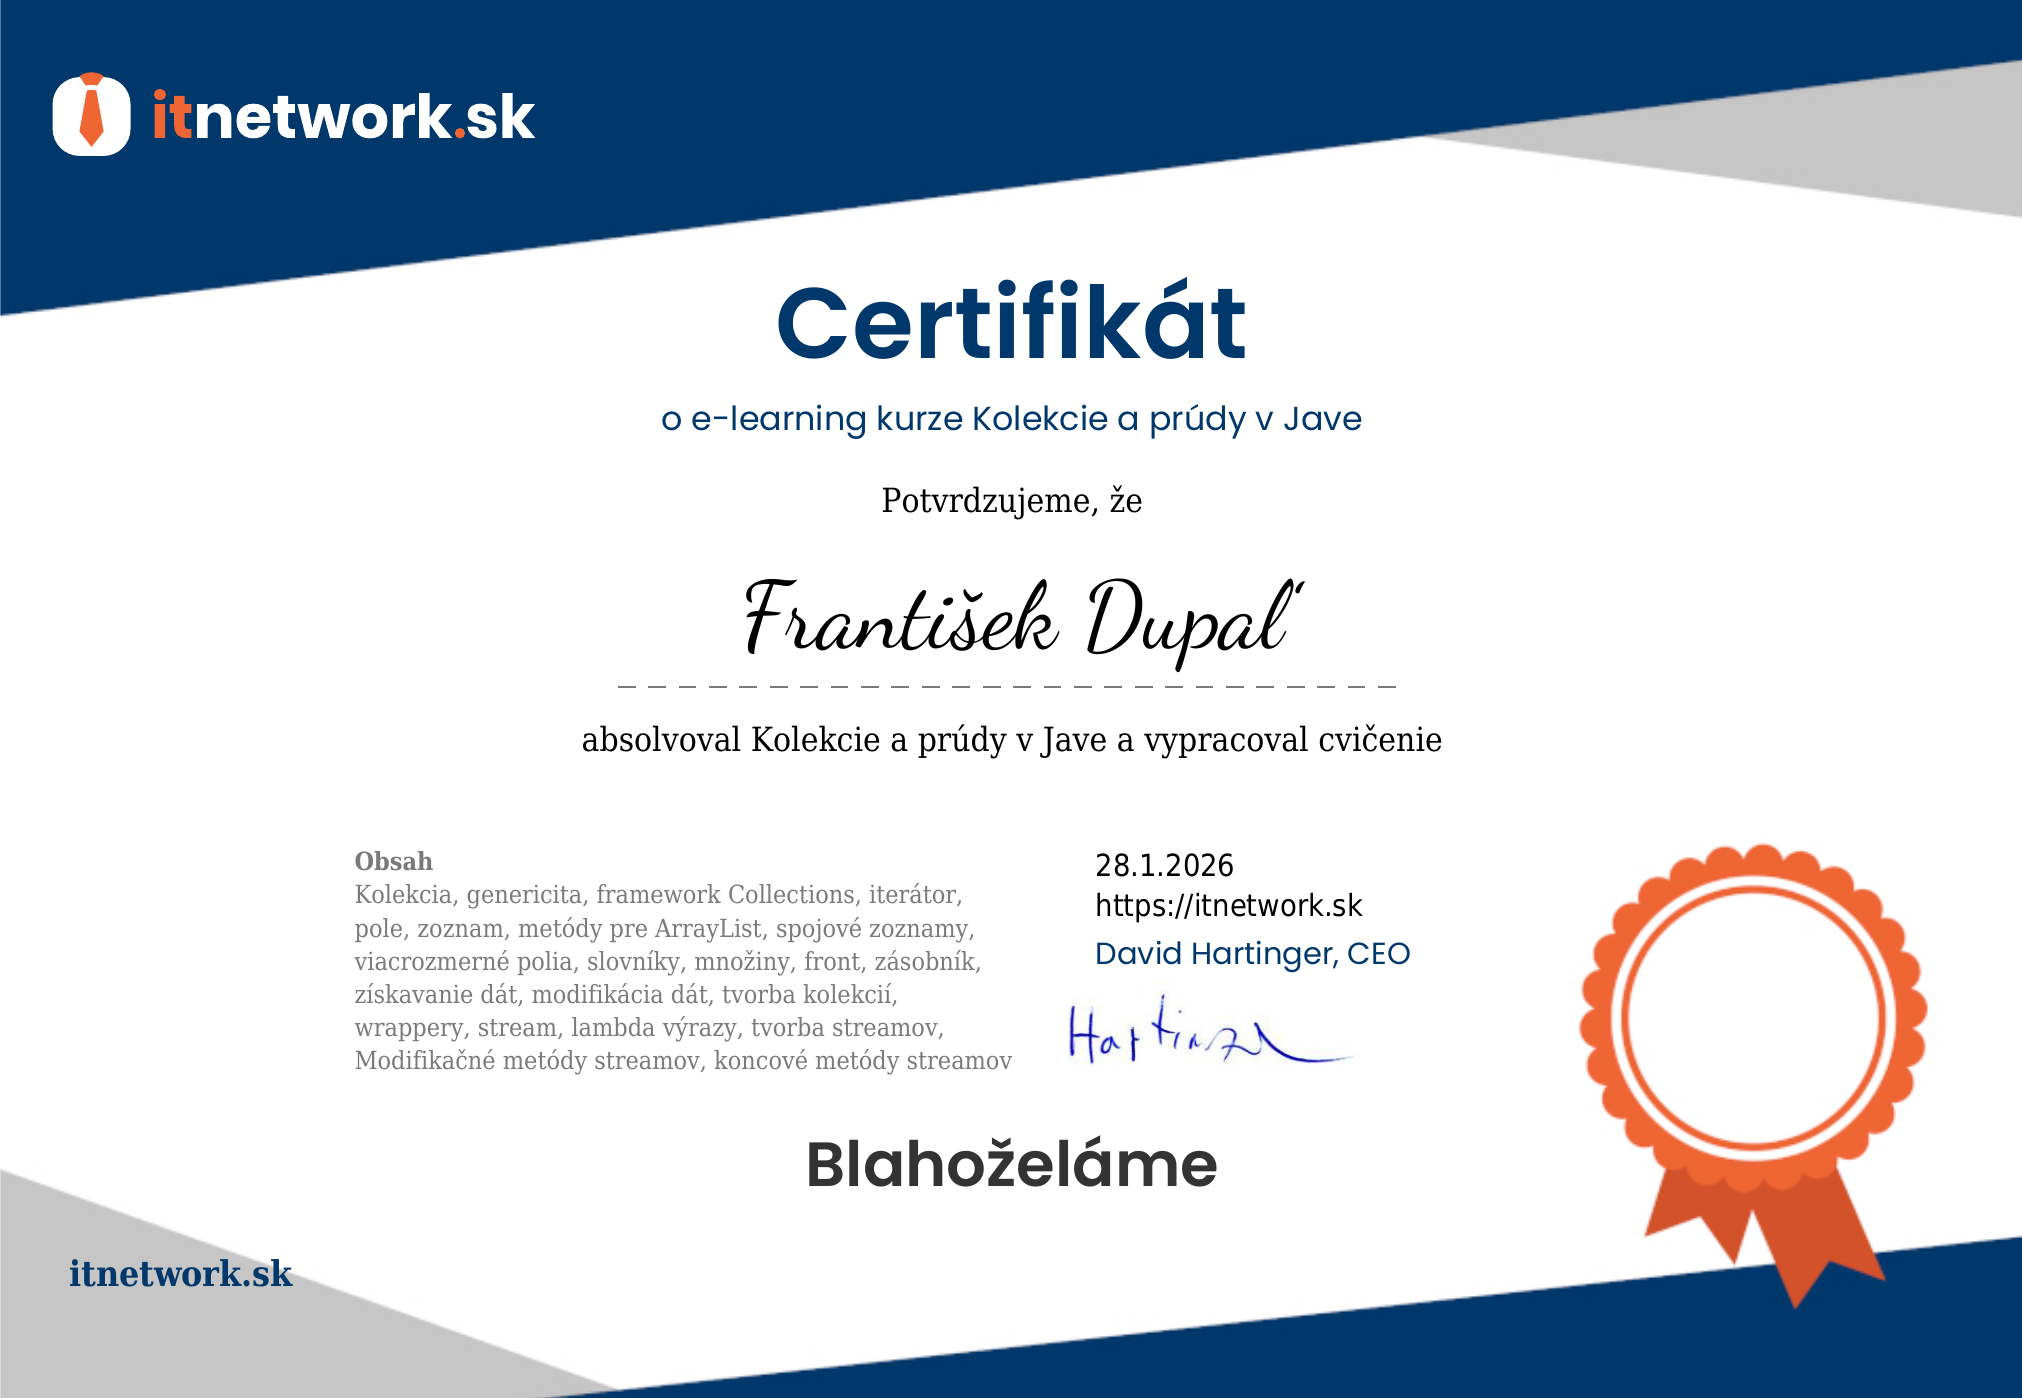
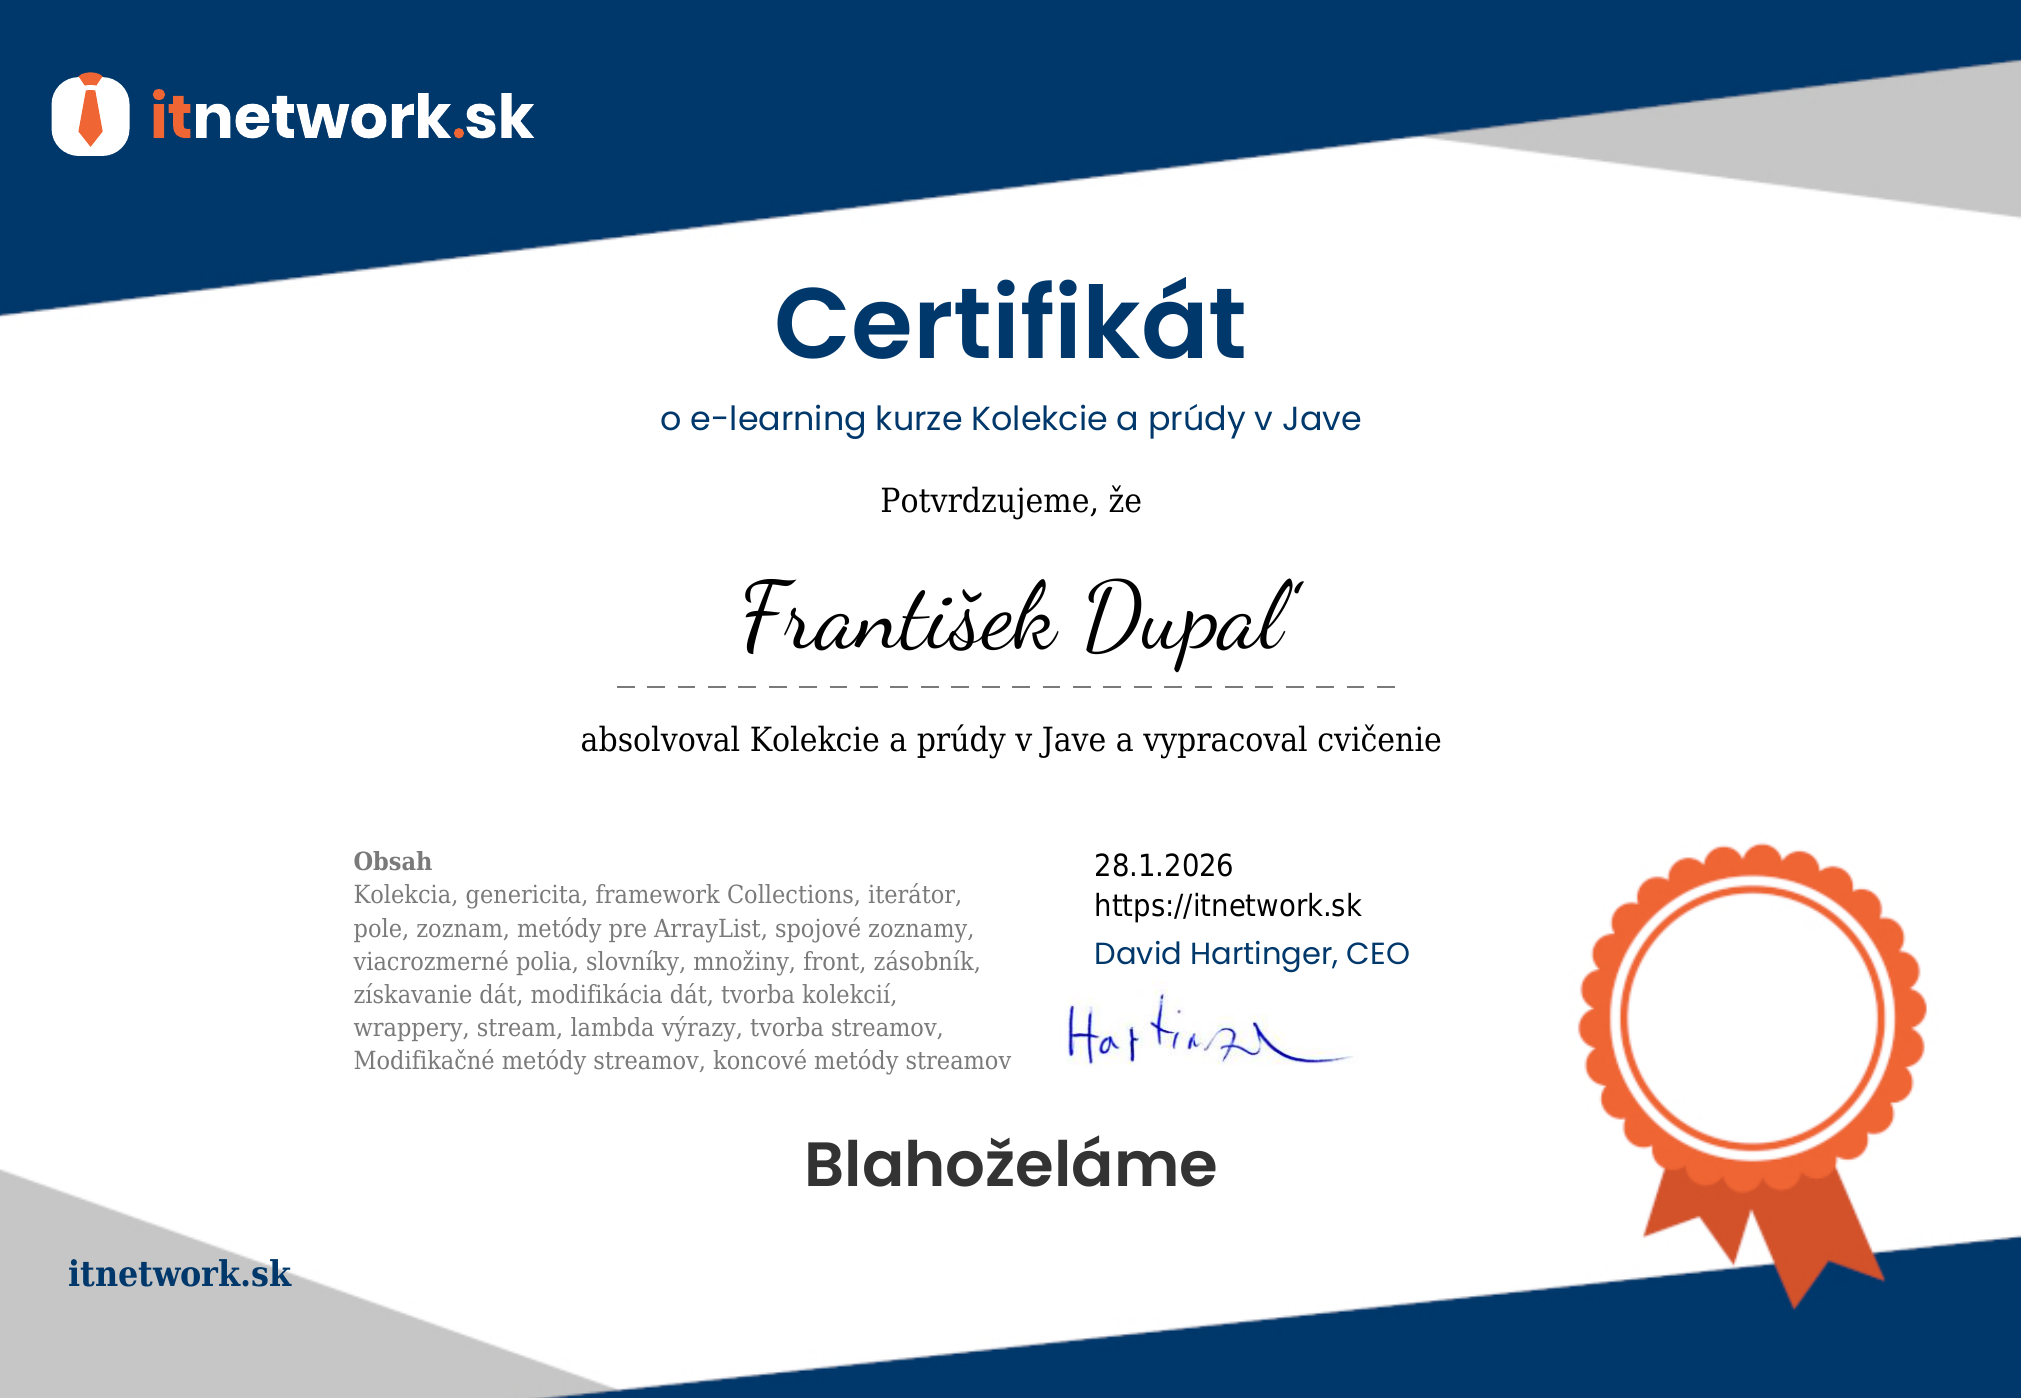
uprava designu skills a about, zmena z-indexu dropdownu

diff --git a/src/js/skills.js b/src/js/skills.js
@@ -4,7 +4,7 @@
 //
 // Tento modul zabezpečuje:
 // - dynamické renderovanie skill kariet
-// - rozdelenie skillov do ľavého a pravého stĺpca
+// - dvojstĺpcový layout (flex 50%)
 // - podporu pre viacjazyčné preklady (data-translate)
 //
 // Modul je inicializovaný cez main.js
@@ -31,19 +31,19 @@ import iconRestAPI from "../icons/RestAPI-icon.png";
 
 // Exportované dáta
 export const SKILLS_DATA = [
-  { side: "left",  icon: iconIntelliJ, alt: "IntelliJ IDEA icon", titleKey: "skillTitleIntelliJ",  descKey: "intelliJIDEAskills" },
-  { side: "left",  icon: iconDevTools, alt: "DevTools icon",        titleKey: "skillTitleDevTools", descKey: "devtoolsskills" },
-  { side: "left",  icon: iconHTML5,    alt: "HTML5 icon",           titleKey: "skillTitleHTML5",    descKey: "html5skills" },
-  { side: "left",  icon: iconSCSS,     alt: "SCSS icon",            titleKey: "skillTitleSCSS",     descKey: "scssskills" },
-  { side: "left",  icon: iconJS,       alt: "JavaScript icon",      titleKey: "skillTitleJavaScript", descKey: "javaScriptskills" },
-  { side: "left",  icon: iconBootstrap, alt: "Bootstrap icon",      titleKey: "skillTitleBootstrap", descKey: "bootstrapskills" },
+  { icon: iconIntelliJ, alt: "IntelliJ IDEA icon", titleKey: "skillTitleIntelliJ",  descKey: "intelliJIDEAskills" },
+  { icon: iconDevTools, alt: "DevTools icon",      titleKey: "skillTitleDevTools", descKey: "devtoolsskills" },
+  { icon: iconHTML5,    alt: "HTML5 icon",         titleKey: "skillTitleHTML5",    descKey: "html5skills" },
+  { icon: iconSCSS,     alt: "SCSS icon",          titleKey: "skillTitleSCSS",     descKey: "scssskills" },
+  { icon: iconJS,       alt: "JavaScript icon",    titleKey: "skillTitleJavaScript", descKey: "javaScriptskills" },
+  { icon: iconBootstrap, alt: "Bootstrap icon",    titleKey: "skillTitleBootstrap", descKey: "bootstrapskills" },
 
-  { side: "right", icon: iconSQL,      alt: "SQL icon",             titleKey: "skillTitleSQL",      descKey: "sqlskills" },
-  { side: "right", icon: iconGit,      alt: "Git icon",             titleKey: "skillTitleGit",      descKey: "gitskills" },
-  { side: "right", icon: iconGitHub,   alt: "GitHub icon",          titleKey: "skillTitleGitHub",   descKey: "githubskills" },
-  { side: "right", icon: iconJava,     alt: "Java icon",            titleKey: "skillTitleJava",     descKey: "javaskills" },
-  { side: "right", icon: iconSpring,   alt: "Spring Boot icon",     titleKey: "skillTitleSpringBoot", descKey: "springbootskills" },
-  { side: "right", icon: iconRestAPI,  alt: "REST API icon",        titleKey: "skillTitleRestAPI",  descKey: "restAPIskills" }
+  { icon: iconSQL,      alt: "SQL icon",           titleKey: "skillTitleSQL",      descKey: "sqlskills" },
+  { icon: iconGit,      alt: "Git icon",           titleKey: "skillTitleGit",      descKey: "gitskills" },
+  { icon: iconGitHub,   alt: "GitHub icon",        titleKey: "skillTitleGitHub",   descKey: "githubskills" },
+  { icon: iconJava,     alt: "Java icon",          titleKey: "skillTitleJava",     descKey: "javaskills" },
+  { icon: iconSpring,   alt: "Spring Boot icon",   titleKey: "skillTitleSpringBoot", descKey: "springbootskills" },
+  { icon: iconRestAPI,  alt: "REST API icon",      titleKey: "skillTitleRestAPI",  descKey: "restAPIskills" }
 ];
 
 
@@ -90,16 +90,18 @@ export function createSkillCard(skill) {
 // Hlavná funkcia – renderovanie skillov
 // ------------------------------------------------------
 export function renderSkills() {
-  const leftCol = document.getElementById("skills-left");
-  const rightCol = document.getElementById("skills-right");
+  const grid = document.getElementById("skills-grid");
+  if (!grid) return;
 
-  if (!leftCol || !rightCol) return;
-
-  leftCol.innerHTML = "";
-  rightCol.innerHTML = "";
+  grid.innerHTML = "";
 
   SKILLS_DATA.forEach(skill => {
+    const wrapper = document.createElement("div");
+    wrapper.className = "skills-info";
+
     const card = createSkillCard(skill);
-    (skill.side === "left" ? leftCol : rightCol).appendChild(card);
+    wrapper.appendChild(card);
+
+    grid.appendChild(wrapper);
   });
 }

diff --git a/src/scss/components/_skill-card.scss b/src/scss/components/_skill-card.scss
@@ -7,19 +7,27 @@
 $skill-icon-size-desktop: 2rem;
 $skill-icon-size-mobile: 1.5rem;
 
+// ===============================================
+// SKILL CARD – HLAVNÝ LAYOUT
+// ===============================================
+
 .skill-card {
   display: flex;
-  gap: ds.$space-md;
+  align-items: center;
+  gap: ds.$space-sm;
   width: 100%;
-  margin-top: ds.$space-md;
-  align-items: flex-start;
 
-  // LEFT SIDE
+
+  // ----------------------------------------
+  // LEFT SIDE (IKONA + NADPIS)
+  // ----------------------------------------
   .skill-left {
     @include ds.flex-column;
     align-items: center;
     justify-content: center;
+
     width: 8rem;
+    min-width: 8rem; // pevná šírka pre perfektné zarovnanie
     min-height: 8rem;
     text-align: center;
 
@@ -29,41 +37,45 @@ $skill-icon-size-mobile: 1.5rem;
       object-fit: contain;
       margin-bottom: ds.$space-xxs;
     }
+
+    .skill-title {
+      font-size: ds.$font-size-lg;
+      margin: 0;
+      text-align: center;
+    }
   }
 
-  // TITLE
-  .skill-title {
-    font-size: ds.$font-size-lg;
-    margin: 0;
-    text-align: center;
-  }
-
-  // DESCRIPTION (collapsed)
+  // ----------------------------------------
+  // RIGHT SIDE (POPIS)
+  // ----------------------------------------
   .skill-desc {
-    flex: 1 1 auto;
+    width: calc(100% - 8rem - ds.$space-md);
+    min-width: calc(100% - 8rem - ds.$space-md);
+    flex: none; // zabráni roztiahnutiu podľa obsahu
+
     opacity: 0;
     max-height: 0;
     overflow: hidden;
-    transition: all 0.3s ease;
-    overflow-wrap: break-word;
     line-height: 1.2;
+    overflow-wrap: break-word;
+    transition: all 0.3s ease;
   }
 
-  // DESCRIPTION (expanded)
+  // EXPANDED STATE
   .skill-desc.show {
     opacity: 1;
     max-height: 500px;
-    background: ds.$cards-rgba;
     padding: ds.$space-md;
-    @include ds.rounded(ds.$radius-base);
+    background: ds.$cards-rgba;
     font-size: ds.$font-size-base;
+    @include ds.rounded(ds.$radius-base);
     @include ds.bubble-box-shadow;
   }
 }
 
-// ----------------------------------------
-// Responsive
-// ----------------------------------------
+// ===============================================
+// RESPONSIVE – MOBILE
+// ===============================================
 
 @include ds.mobile {
   .skill-card {
@@ -72,11 +84,17 @@ $skill-icon-size-mobile: 1.5rem;
 
   .skill-left {
     width: 60px;
+    min-width: 60px;
     min-height: 2rem;
 
     .skill-icon {
       width: $skill-icon-size-mobile;
       height: $skill-icon-size-mobile;
     }
+  }
+
+  .skill-desc {
+    width: calc(100% - 60px - 0.75rem);
+    min-width: calc(100% - 60px - 0.75rem);
   }
 }

diff --git a/index.html b/index.html
@@ -287,20 +287,15 @@
       <section class="page-section bg-primary text-white mb-0" id="skills">
         <div class="skills-container">
           <div class="section">
-          <h2 data-translate="subtitleSkills" class="page-section-heading text-center text-uppercase">Skills</h2>
-          <div class="divider-custom d-flex justify-content-center align-items-center">
-            <div class="divider-custom-line"></div>
-            <div class="divider-custom-icon"><i class="fas fa-star"></i></div>
-            <div class="divider-custom-line"></div>
-          </div>
-          <div class="skills-page">
-            <div class="row">
-              <!-- ĽAVÝ STĹPEC -->
-              <div class="col-lg-6 skills-info" id="skills-left"></div>
-              <!-- PRAVÝ STĹPEC -->
-              <div class="col-lg-6 skills-info" id="skills-right"></div>
+            <h2 data-translate="subtitleSkills" class="page-section-heading text-center text-uppercase">Skills</h2>
+            <div class="divider-custom d-flex justify-content-center align-items-center">
+              <div class="divider-custom-line"></div>
+              <div class="divider-custom-icon"><i class="fas fa-star"></i></div>
+              <div class="divider-custom-line"></div>
             </div>
-          </div>
+            <div class="skills-page">
+              <div class="row" id="skills-grid"></div>
+            </div>
           </div>
         </div>
       </section>

diff --git a/src/scss/pages/_skills.scss b/src/scss/pages/_skills.scss
@@ -16,11 +16,18 @@
   @include ds.gradient-bg(ds.$first-middle, ds.$first-light, to right);
   @include ds.rounded(ds.$radius-base);
   width: 100%;
-
+  
   .row {
     display: flex;
     flex-wrap: wrap;
-    gap: ds.$space-xs;
+    flex-direction: row;
+    gap: ds.$space-sm;
+    justify-content: center;
+  }
+
+  .skills-info {
+    flex: 0 0 45%;
+    max-width: 45%;
   }
 
   h2 {
@@ -40,7 +47,8 @@
 
     .skills-page {
       @include ds.gradient-bg(ds.$primary, ds.$first-light, to right);
-      padding: ds.$space-sm ds.$space-md;
+      padding-top: ds.$space-xl;
+      padding-bottom: ds.$space-xl;
       color: ds.$dark;
       border-radius: ds.$radius-base;
       border: 1px solid ds.$dark;

diff --git a/src/scss/pages/_about.scss b/src/scss/pages/_about.scss
@@ -48,7 +48,7 @@
     margin: 0 auto;
 
     span {
-      @include ds.text-shadow(strong);
+      @include ds.text-shadow(xs);
     }
   }
 
@@ -66,6 +66,8 @@
   .about-info {
     color: ds.$dark;
     font-size: ds.$font-size-base;
+    flex: 0 0 48%;
+    max-width: 48%;
   }
 
   // --------------------------------------------

diff --git a/src/scss/components/navbar/_navbar.scss b/src/scss/components/navbar/_navbar.scss
@@ -11,6 +11,7 @@
   border-bottom: 1px solid ds.$dark;
   color: ds.$light;
   @include ds.text-shadow(sm);
+  z-index: ds.$z-max;
 }
 
 #mainNav .container-fluid {
